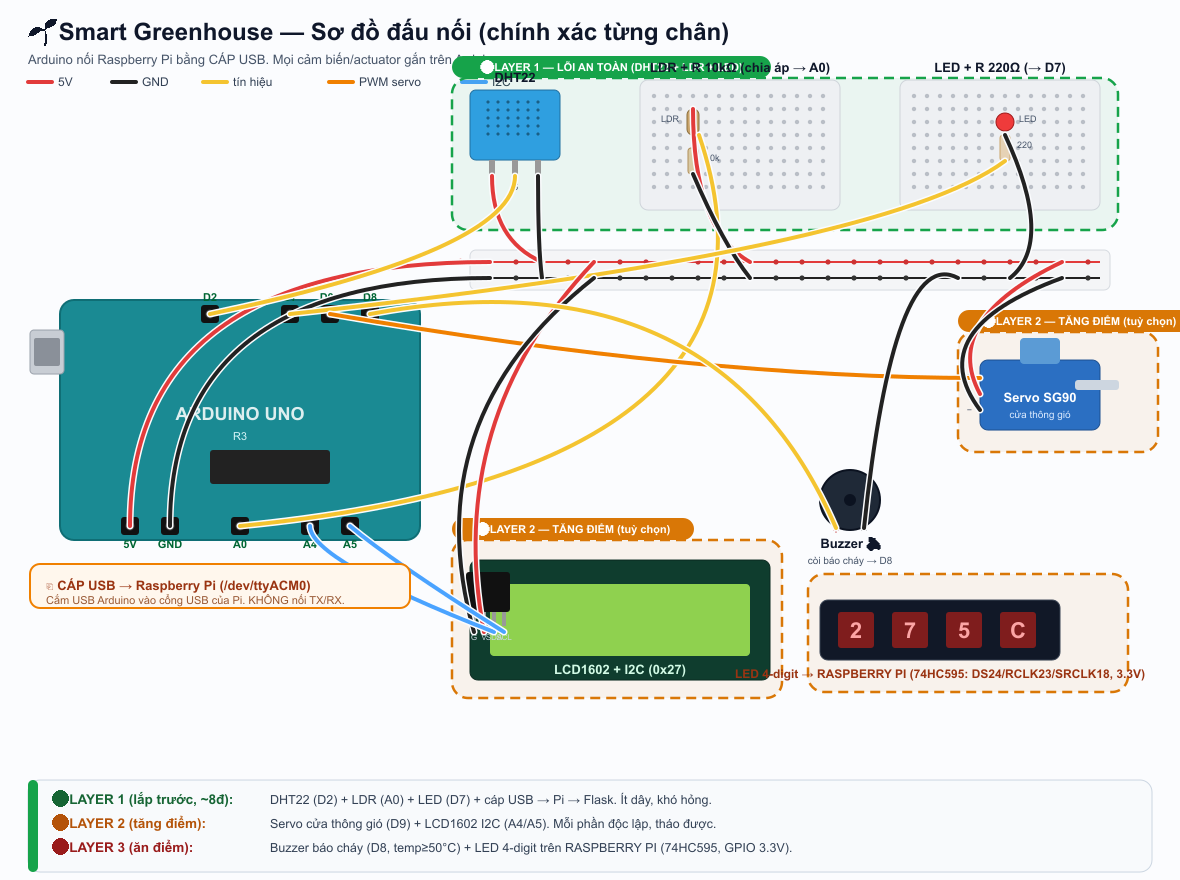
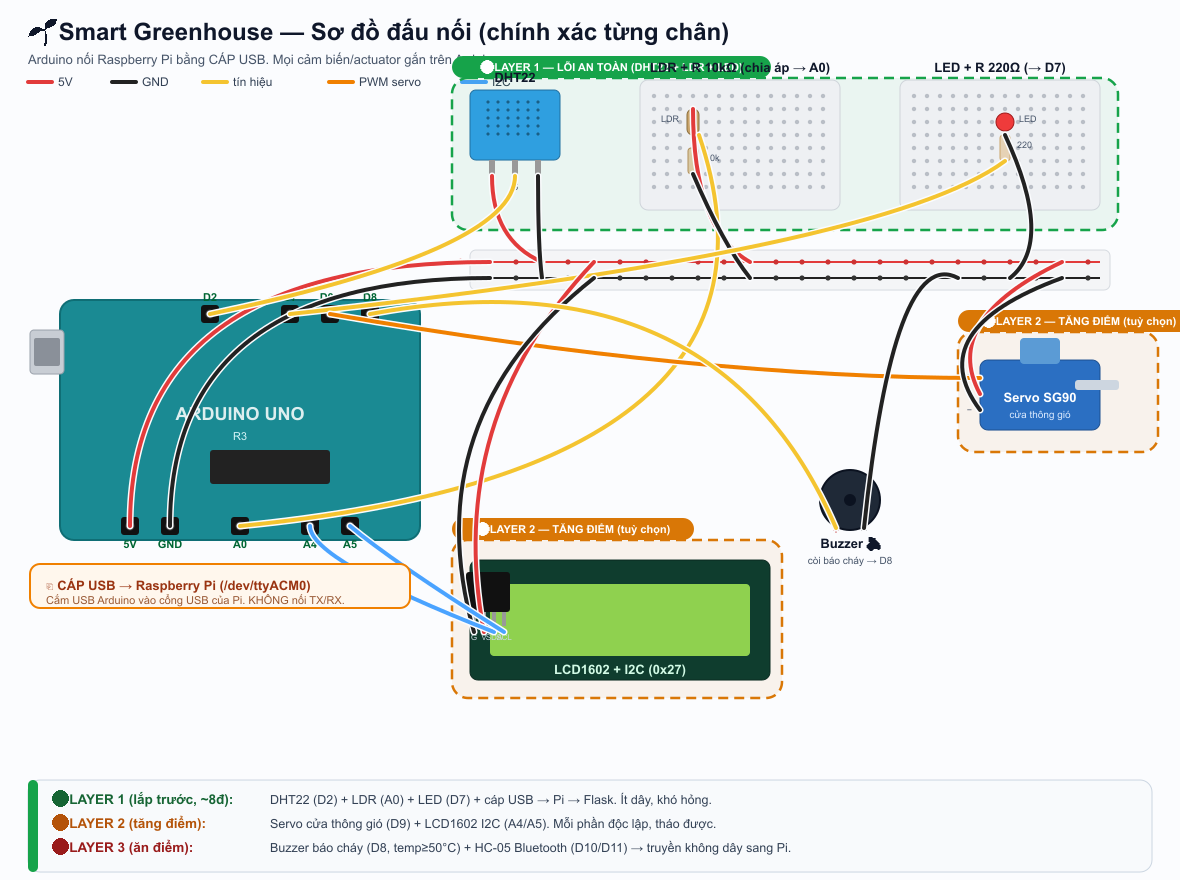
Remove 7-seg LED (Layer 3) from deliverable: regenerate wiring-diagram without 74HC595, drop sevenseg.py from source zip, scrub README/outline mentions

Changed region(s): [[0.6407, 0.675, 0.9763, 0.7977], [0.3966, 0.9511, 0.6712, 0.9818]]

diff --git a/deliverable/02-report/SLIDES_OUTLINE.md b/deliverable/02-report/SLIDES_OUTLINE.md
@@ -12,7 +12,7 @@
    Nhấn: truyền **không dây qua Bluetooth** (/dev/rfcomm0); rớt BT thì tự fallback USB ⇒ luôn online.
 4. **Sơ đồ phần cứng / đấu nối** — ảnh breadboard + bảng pin:
    DHT22 (nhiệt+ẩm), LDR (sáng), LED grow-light D7, Servo cửa thông gió D9, **Buzzer báo cháy D8**,
-   LCD1602 I2C (A4/A5), HC-05 (Bluetooth). 7-seg 74HC595 trên Pi (tuỳ chọn).
+   LCD1602 I2C (A4/A5), HC-05 (Bluetooth).
 5. **Luồng dữ liệu** — Arduino đọc cảm biến → JSON → **Bluetooth → Pi** (USB backup) → SQLite → API → Dashboard;
    lệnh web → Pi → Arduino (LED/VENT/MODE/threshold). Sự kiện cháy → Pi → **Telegram**.
 6. **Logic tự động + BẢO VỆ** — đèn bật khi tối (light < ngưỡng); cửa mở khi nóng (temp > ngưỡng); Auto/Manual.